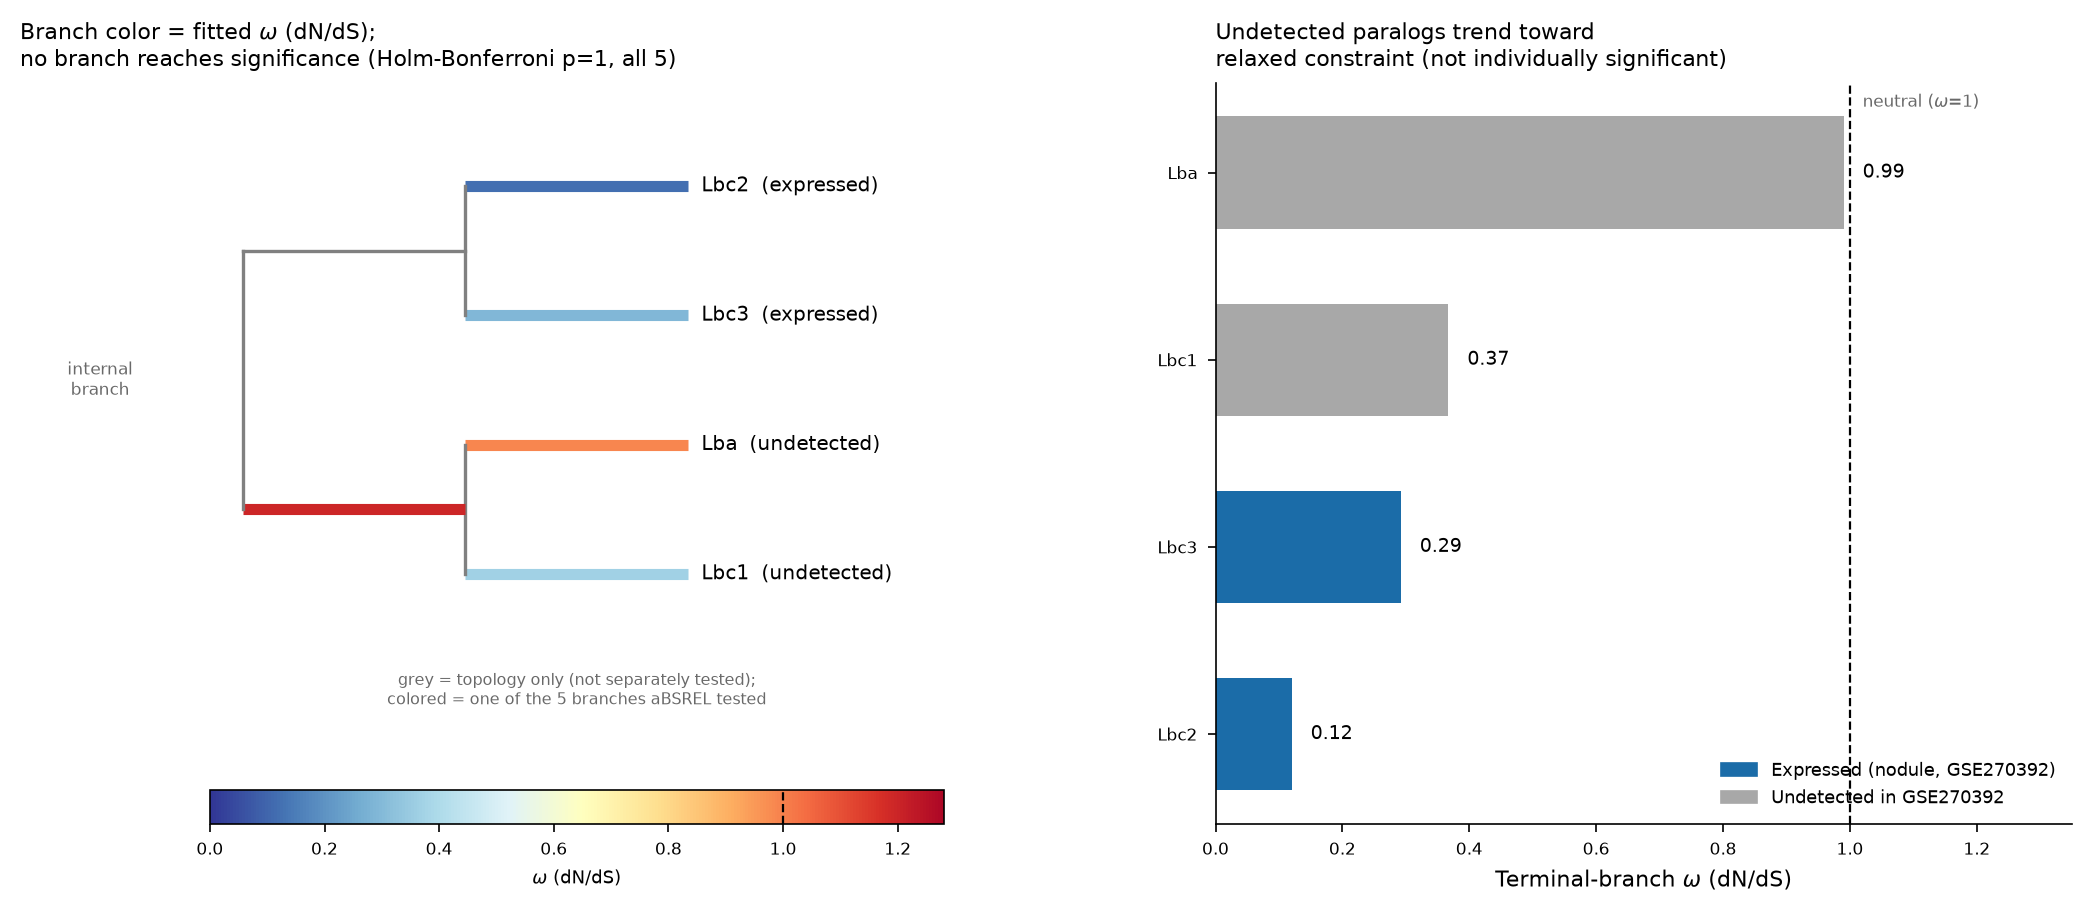
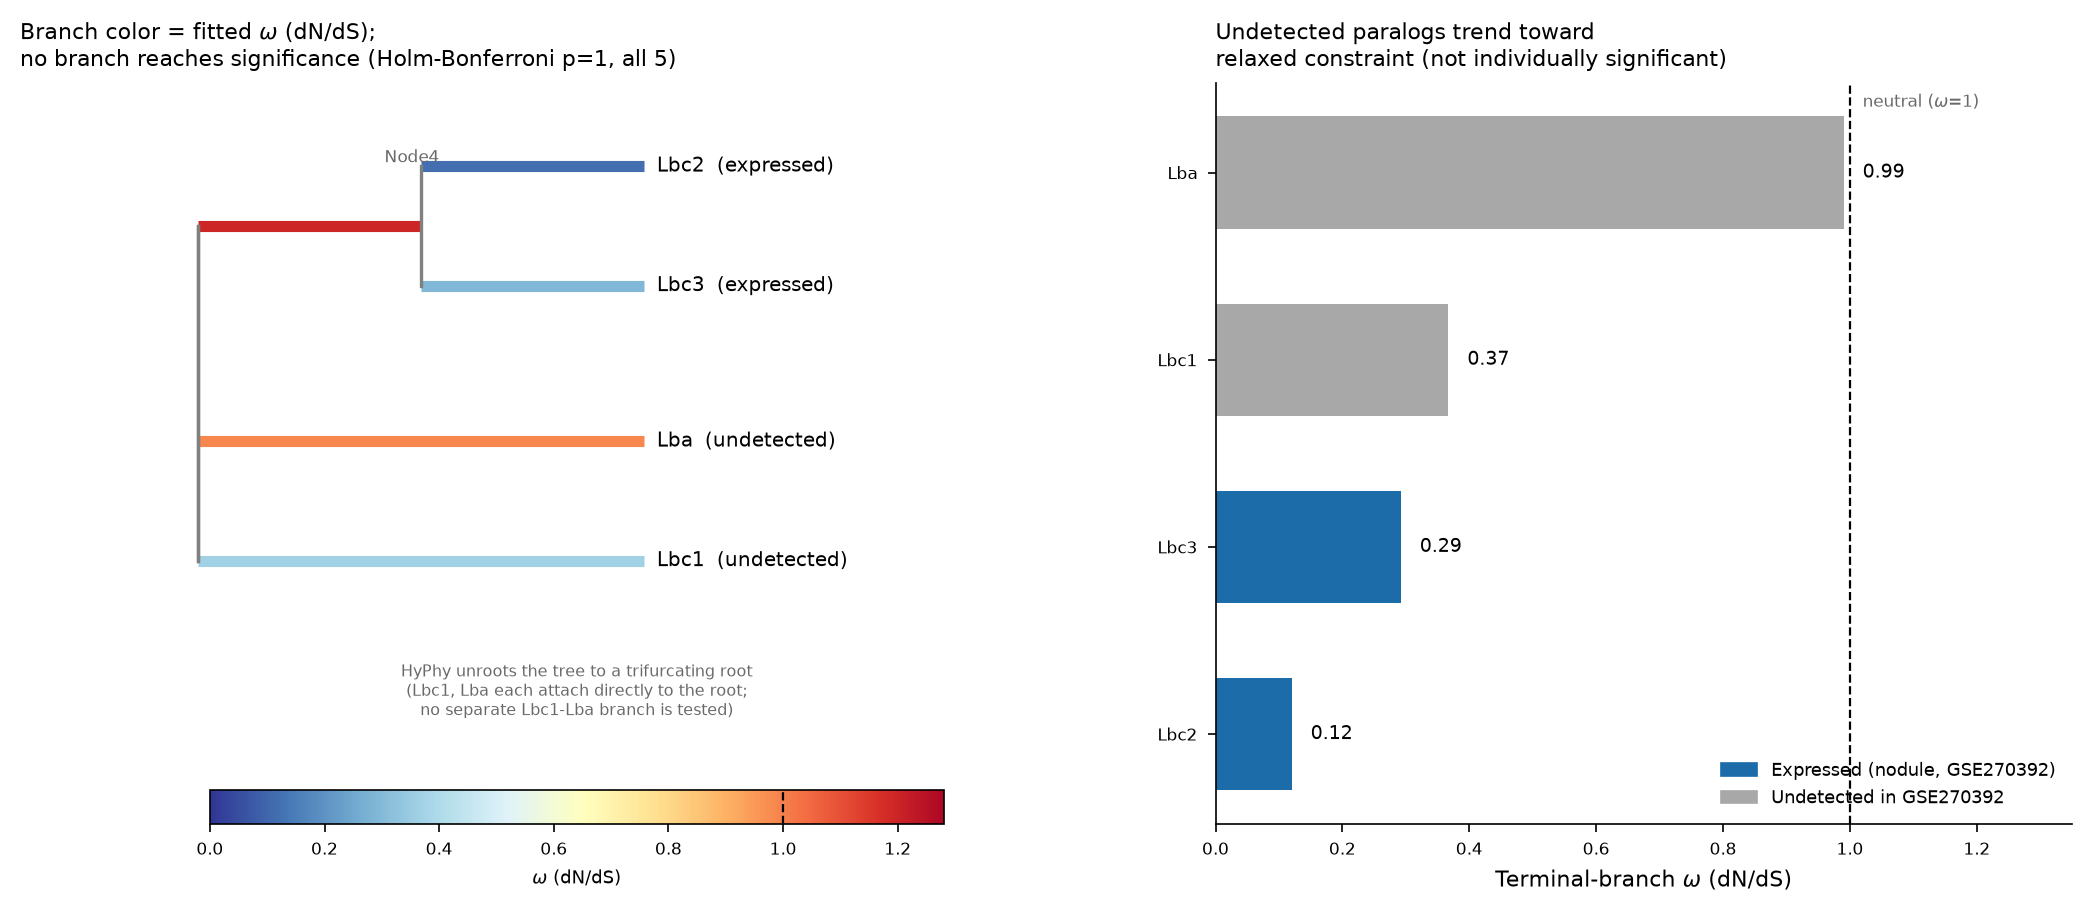
Fix aBSREL figure/README: Node4 is the (Lbc3,Lbc2) ancestral branch, not (Lbc1,Lba)
HyPhy unroots the 4-taxon tree to a trifurcating root: Lbc1 and Lba each
attach directly to the root as separate branches, with no shared internal
branch between them. The single tested internal branch (Node4, omega=1.20)
is specifically the ancestral branch of the (Lbc3,Lbc2) clade -- confirmed
directly from absrel_result['input']['trees']. The previous figure had this
backwards (colored/tested branch drawn feeding the undetected Lbc1/Lba pair
instead of the expressed Lbc3/Lbc2 pair). plot_absrel_selection.py now reads
and asserts the topology from HyPhy's own recorded input tree rather than
assuming it matches the rooted guide tree.

diff --git a/leghemoglobin_absrel_selection/code/plot_absrel_selection.py b/leghemoglobin_absrel_selection/code/plot_absrel_selection.py
@@ -5,6 +5,14 @@ plot the tree with branches colored by fitted omega (dN/dS), and a bar chart
 comparing terminal-branch omega against each paralog's expression-detection
 status in GSE270392 (see ../../gse270392_leghemoglobin_redundancy/).
 
+IMPORTANT topology note: HyPhy analyzes the tree unrooted. For this 4-taxon
+input, that means the actual tested tree is a TRIFURCATING root with three
+branches: Lbc1 (terminal), Lba (terminal), and "Node4" (internal, leading to
+the (Lbc3, Lbc2) clade) -- read directly from the aBSREL result's own
+`input.trees` field, not assumed from the rooted guide tree we supplied.
+There is no separate "Lbc1-Lba" branch in the tested tree; Node4 is the
+ancestral branch of the (Lbc3, Lbc2) clade specifically.
+
 Usage:
     python plot_absrel_selection.py <absrel_modal_result.json> <output.png>
 """
@@ -31,15 +39,16 @@ def main():
         modal_out = json.load(f)
     absrel = json.loads(modal_out["absrel_result"])
 
-    branch_attrs = absrel["branch attributes"]["0"]
-    omega = {}
-    p_corr = {}
-    for branch, attrs in branch_attrs.items():
-        omega[branch] = attrs["Baseline MG94xREV omega ratio"]
-        p_corr[branch] = attrs["Corrected P-value"]
+    # Confirm topology directly from HyPhy's own recorded input tree rather
+    # than assuming it matches the rooted guide tree we supplied.
+    tested_tree_str = absrel["input"]["trees"]["0"]
+    assert "Node4" in tested_tree_str, "expected topology changed -- inspect input.trees before plotting"
 
-    internal_branch = [b for b in branch_attrs if b not in TIP_INFO][0]
-    internal_omega = omega[internal_branch]
+    branch_attrs = absrel["branch attributes"]["0"]
+    omega = {attrs_label(b): attrs["Baseline MG94xREV omega ratio"] for b, attrs in branch_attrs.items()
+             for attrs_label in [lambda x, b=b: TIP_INFO.get(b, {}).get("label", b)]}
+    p_corr = {attrs_label(b): attrs["Corrected P-value"] for b, attrs in branch_attrs.items()
+              for attrs_label in [lambda x, b=b: TIP_INFO.get(b, {}).get("label", b)]}
 
     n_significant = absrel["test results"]["positive test results"]
     n_tested = absrel["test results"]["tested"]
@@ -53,37 +62,34 @@ def main():
     def bc(om):
         return cmap(norm(om))
 
-    y_pos = {"Lbc1": 0, "Lba": 1, "Lbc3": 2, "Lbc2": 3}
-    label_of = {b: v["label"] for b, v in TIP_INFO.items()}
-    x_tip, x_int1, x_int2, x_root = 1.0, 0.5, 0.5, 0.0
+    y_pos = {"Lbc1": 0, "Lba": 1, "Lbc3": 2.3, "Lbc2": 3.3}
+    x_root, x_node4, x_tip = 0.0, 0.5, 1.0
 
-    om_by_label = {v["label"]: omega[b] for b, v in TIP_INFO.items()}
+    ax.plot([x_root, x_tip], [y_pos["Lbc1"]]*2, lw=4, color=bc(omega["Lbc1"]), solid_capstyle="butt")
+    ax.plot([x_root, x_tip], [y_pos["Lba"]]*2, lw=4, color=bc(omega["Lba"]), solid_capstyle="butt")
 
-    ax.plot([x_int1, x_tip], [y_pos["Lbc1"]]*2, lw=4, color=bc(om_by_label["Lbc1"]), solid_capstyle="butt")
-    ax.plot([x_int1, x_tip], [y_pos["Lba"]]*2, lw=4, color=bc(om_by_label["Lba"]), solid_capstyle="butt")
-    ax.plot([x_int1, x_int1], [y_pos["Lbc1"], y_pos["Lba"]], lw=1.2, color="grey")
+    y_node4 = (y_pos["Lbc3"] + y_pos["Lbc2"]) / 2
+    ax.plot([x_root, x_node4], [y_node4]*2, lw=4, color=bc(omega["Node4"]), solid_capstyle="butt")
+    ax.plot([x_root, x_root], [min(y_pos["Lbc1"], y_pos["Lba"], y_node4),
+                                max(y_pos["Lbc1"], y_pos["Lba"], y_node4)], lw=1.2, color="grey")
 
-    ax.plot([x_int2, x_tip], [y_pos["Lbc3"]]*2, lw=4, color=bc(om_by_label["Lbc3"]), solid_capstyle="butt")
-    ax.plot([x_int2, x_tip], [y_pos["Lbc2"]]*2, lw=4, color=bc(om_by_label["Lbc2"]), solid_capstyle="butt")
-    ax.plot([x_int2, x_int2], [y_pos["Lbc3"], y_pos["Lbc2"]], lw=1.2, color="grey")
-
-    y_int1 = (y_pos["Lbc1"] + y_pos["Lba"]) / 2
-    y_int2 = (y_pos["Lbc3"] + y_pos["Lbc2"]) / 2
-    ax.plot([x_root, x_int1], [y_int1]*2, lw=4, color=bc(internal_omega), solid_capstyle="butt")
-    ax.plot([x_root, x_int2], [y_int2]*2, lw=1.2, color="grey")
-    ax.plot([x_root, x_root], [y_int1, y_int2], lw=1.2, color="grey")
+    ax.plot([x_node4, x_tip], [y_pos["Lbc3"]]*2, lw=4, color=bc(omega["Lbc3"]), solid_capstyle="butt")
+    ax.plot([x_node4, x_tip], [y_pos["Lbc2"]]*2, lw=4, color=bc(omega["Lbc2"]), solid_capstyle="butt")
+    ax.plot([x_node4, x_node4], [y_pos["Lbc3"], y_pos["Lbc2"]], lw=1.2, color="grey")
 
     for b, v in TIP_INFO.items():
         y = y_pos[v["label"]]
         status = "expressed" if v["detected"] else "undetected"
         ax.text(x_tip + 0.03, y, f"{v['label']}  ({status})", fontsize=7.2, va="center", ha="left")
 
-    ax.text(x_root - 0.32, (y_int1+y_int2)/2, "internal\nbranch", fontsize=6, ha="center", va="center", color="dimgrey")
-    ax.text(0.75, -0.75, "grey = topology only (not separately tested);\ncolored = one of the 5 branches aBSREL tested",
+    ax.text(x_node4 - 0.02, y_node4 + 0.5, "Node4", fontsize=6.3, ha="center", va="bottom", color="dimgrey")
+    ax.text(0.85, -0.85,
+            "HyPhy unroots the tree to a trifurcating root\n(Lbc1, Lba each attach directly to the root;\n"
+            "no separate Lbc1-Lba branch is tested)",
             fontsize=5.8, ha="center", va="top", color="dimgrey")
 
-    ax.set_xlim(-0.5, 2.0)
-    ax.set_ylim(-1.1, 3.8)
+    ax.set_xlim(-0.4, 2.1)
+    ax.set_ylim(-1.3, 4.0)
     ax.axis("off")
     ax.set_title(f"Branch color = fitted $\\omega$ (dN/dS);\n"
                  f"no branch reaches significance (Holm-Bonferroni p=1, all {n_tested})", fontsize=8)
@@ -98,15 +104,15 @@ def main():
 
     ax2 = axes[1]
     order = ["Lbc2", "Lbc3", "Lbc1", "Lba"]
-    omegas = [om_by_label[l] for l in order]
+    omegas = [omega[l] for l in order]
     detected_flags = [TIP_INFO[[b for b, v in TIP_INFO.items() if v["label"] == l][0]]["detected"] for l in order]
     colors_bar = ["#1b6ca8" if d else "#a8a8a8" for d in detected_flags]
 
     ax2.barh(order, omegas, color=colors_bar, height=0.6)
     ax2.axvline(1.0, color="black", lw=0.8, ls="--")
     ax2.text(1.02, 3.35, "neutral ($\\omega$=1)", fontsize=6, color="dimgrey")
-    for i, om in enumerate(omegas):
-        ax2.text(om + 0.03, i, f"{om:.2f}", va="center", fontsize=7)
+    for i, val in enumerate(omegas):
+        ax2.text(val + 0.03, i, f"{val:.2f}", va="center", fontsize=7)
     ax2.set_xlim(0, 1.35)
     ax2.set_xlabel("Terminal-branch $\\omega$ (dN/dS)")
     ax2.set_title("Undetected paralogs trend toward\nrelaxed constraint (not individually significant)", fontsize=8)
@@ -120,8 +126,7 @@ def main():
     fig.tight_layout()
     fig.savefig(out_path, dpi=200)
     print(f"Saved {out_path}")
-    print(json.dumps({label_of.get(b, b): {"omega": round(omega[b], 4), "corrected_p": p_corr[b]}
-                       for b in branch_attrs}, indent=2))
+    print(json.dumps({l: {"omega": round(omega[l], 4), "corrected_p": p_corr[l]} for l in omega}, indent=2))
     print(f"Positive test results: {n_significant} / {n_tested} branches")
 
 

diff --git a/leghemoglobin_absrel_selection/README.md b/leghemoglobin_absrel_selection/README.md
@@ -45,9 +45,16 @@ split, distinct from the Lbc1/Lba pair, which is undetected in GSE270392.
    account (image: Miniconda + bioconda `prank`+`hyphy`):
    - **PRANK** (`-codon -F`, guided by the pruned tree) for a codon-aware
      multiple alignment of the 4 CDSs;
-   - **HyPhy aBSREL** on that alignment + tree, testing all 5 branches (4
-     terminal + 1 internal -- a 4-taxon unrooted tree has exactly one
-     non-trivial internal edge) for episodic diversifying selection.
+   - **HyPhy aBSREL** on that alignment + tree, testing all 5 branches for
+     episodic diversifying selection. HyPhy analyzes the tree unrooted, which
+     collapses our 4-taxon rooted guide tree into a **trifurcating root**:
+     Lbc1 and Lba each attach directly to the root as separate terminal
+     branches, and the third root branch ("Node4") leads to the (Lbc3, Lbc2)
+     clade. There is therefore no separate Lbc1-Lba branch in the tested
+     tree -- the one internal branch tested (Node4) is specifically the
+     ancestral branch of the (Lbc3, Lbc2) pair. This is read directly from
+     aBSREL's own recorded input tree (`absrel_result["input"]["trees"]`),
+     not assumed from the guide tree's topology.
 4. `code/plot_absrel_selection.py` -- renders the interpretation figure below.
 
 ## Results
@@ -58,7 +65,7 @@ split, distinct from the Lbc1/Lba pair, which is undetected in GSE270392.
 | Lbc3 (`Glyma.10G198800`) | 0.29 | 1.0 | Yes (nodule) |
 | Lbc1 (`Glyma.10G199000`) | 0.37 | 1.0 | No |
 | Lba (`Glyma.10G199100`) | 0.99 | 1.0 | No |
-| internal branch (ancestral split) | 1.20 | 1.0 | -- |
+| Node4 (ancestral branch of the Lbc3+Lbc2 clade) | 1.20 | 1.0 | -- |
 
 **Holm-Bonferroni-corrected likelihood-ratio test for episodic diversifying
 positive selection: 0 of 5 branches significant** (p = 0.05 threshold). No
@@ -67,19 +74,23 @@ paralog shows statistically detectable positive selection on this tree.
 ![aBSREL branch-site selection results for the soybean leghemoglobin quartet](results/leghemoglobin_absrel_selection.png)
 
 **Interpretation, with the caveat that none of this reaches significance**:
-all 4 terminal branches (and the internal branch) sit at $\omega$ < 1
-(purifying selection) except Lba, which is essentially at the neutral
-threshold ($\omega$ = 0.99). Read qualitatively, the omega ranking lines up
-with the expression-based redundancy result: the two expressed, dosage-balanced
-paralogs (Lbc2, Lbc3) show the strongest purifying constraint (lowest
-$\omega$), while the two undetected paralogs (Lbc1, and especially Lba) trend
+all 4 terminal branches sit at $\omega$ < 1 (purifying selection) except Lba,
+which is essentially at the neutral threshold ($\omega$ = 0.99). Read
+qualitatively, the omega ranking lines up with the expression-based
+redundancy result: the two expressed, dosage-balanced paralogs (Lbc2, Lbc3)
+show the strongest purifying constraint (lowest $\omega$) on their terminal
+branches, while the two undetected paralogs (Lbc1, and especially Lba) trend
 toward weaker constraint -- consistent with (though not proof of) a
 degeneration trajectory paralleling their loss of detectable expression. The
-internal branch separating the two pairs has the highest $\omega$ (1.20,
-just above the neutral threshold), which would be consistent with a brief
-period of relaxed constraint or positive selection around the ancestral
-duplication event that produced the two sister pairs -- but this, too, is not
-statistically significant.
+highest $\omega$ (1.20, just above the neutral threshold) is on Node4, the
+ancestral branch leading specifically to the (Lbc3, Lbc2) clade -- i.e. the
+branch immediately preceding the split that produced the two paralogs that
+*are* co-expressed and dosage-balanced today. That would be consistent with a
+brief period of relaxed constraint or positive selection around that
+particular duplication event, rather than around the deeper split separating
+the Lbc1/Lba lineage -- but this, too, is not statistically significant, and
+no equivalent internal branch for the Lbc1/Lba pair exists in the tested
+(unrooted, trifurcating) tree to compare against.
 
 **This analysis has essentially no statistical power** to detect selection at
 this scale: aBSREL is a likelihood-ratio test whose power scales with the
